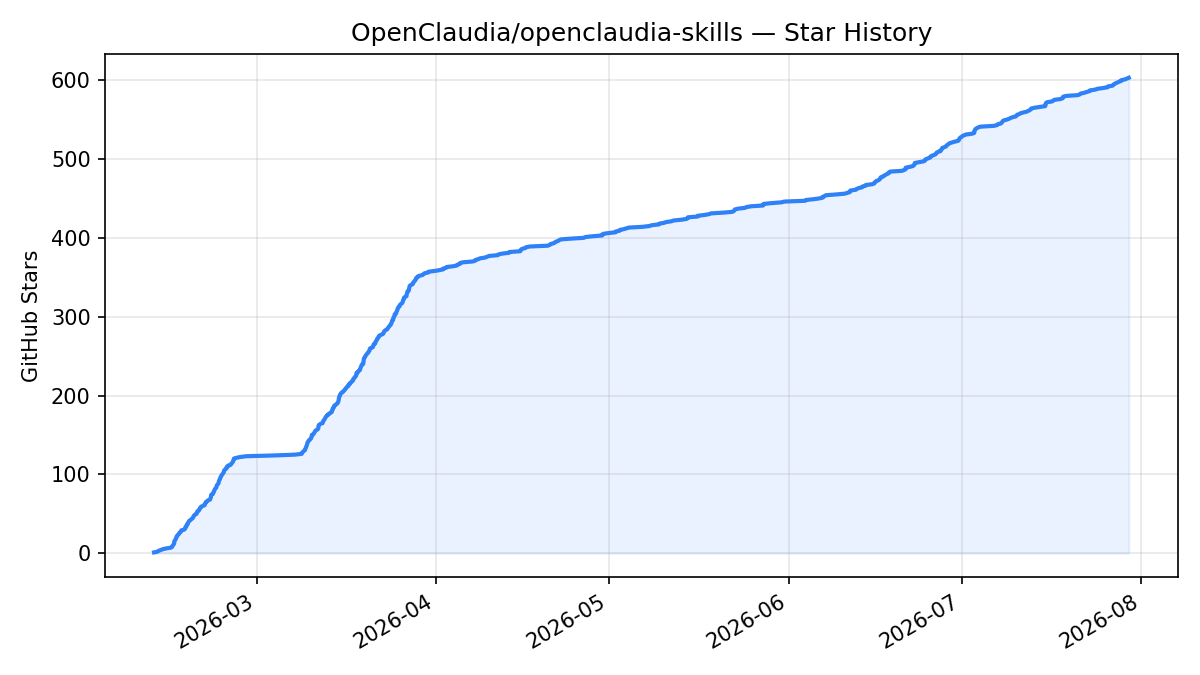
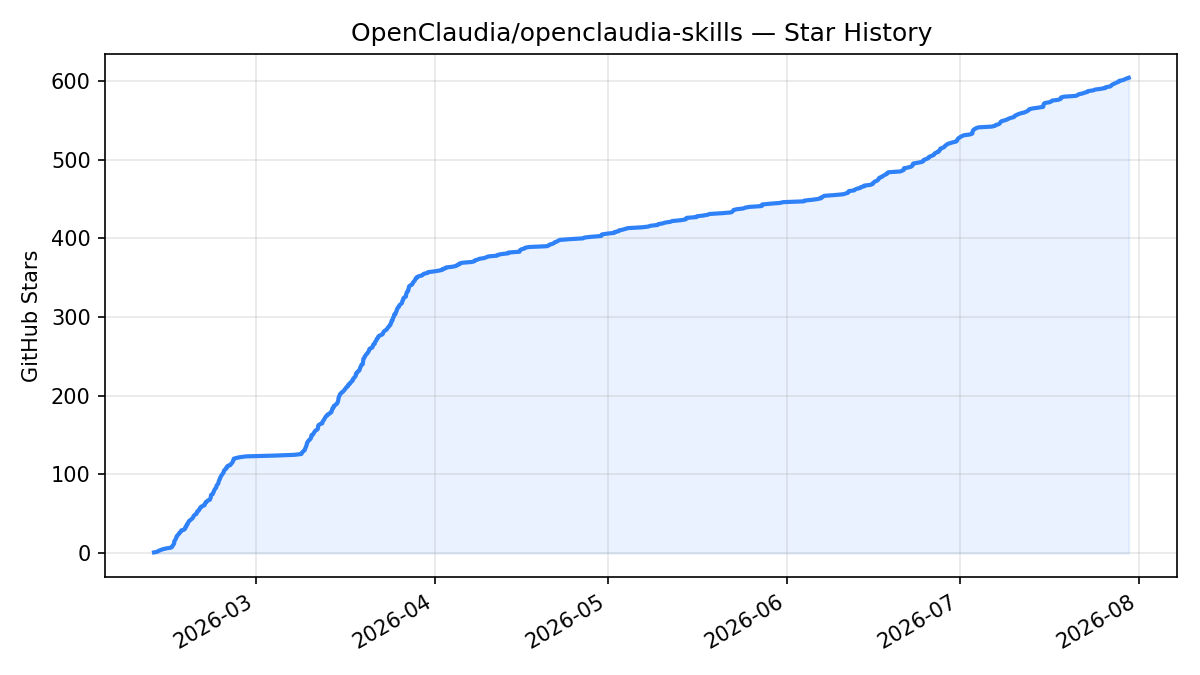
readme: refresh star chart (604 stars)

diff --git a/README.md b/README.md
@@ -327,7 +327,7 @@ MIT — see [LICENSE](LICENSE)
 
 ![Star History Chart](assets/star-history.png)
 
-<sub>Updated 2026-07-29. GitHub [restricted the stargazers API](https://github.blog/changelog/2026-06-30-upcoming-access-restrictions-to-public-api-endpoints-and-ui-views/) in June 2026, so the live star-history.com badge no longer renders; this chart is generated from the repo's own star data.</sub>
+<sub>Updated 2026-07-30. GitHub [restricted the stargazers API](https://github.blog/changelog/2026-06-30-upcoming-access-restrictions-to-public-api-endpoints-and-ui-views/) in June 2026, so the live star-history.com badge no longer renders; this chart is generated from the repo's own star data.</sub>
 
 ---
 
